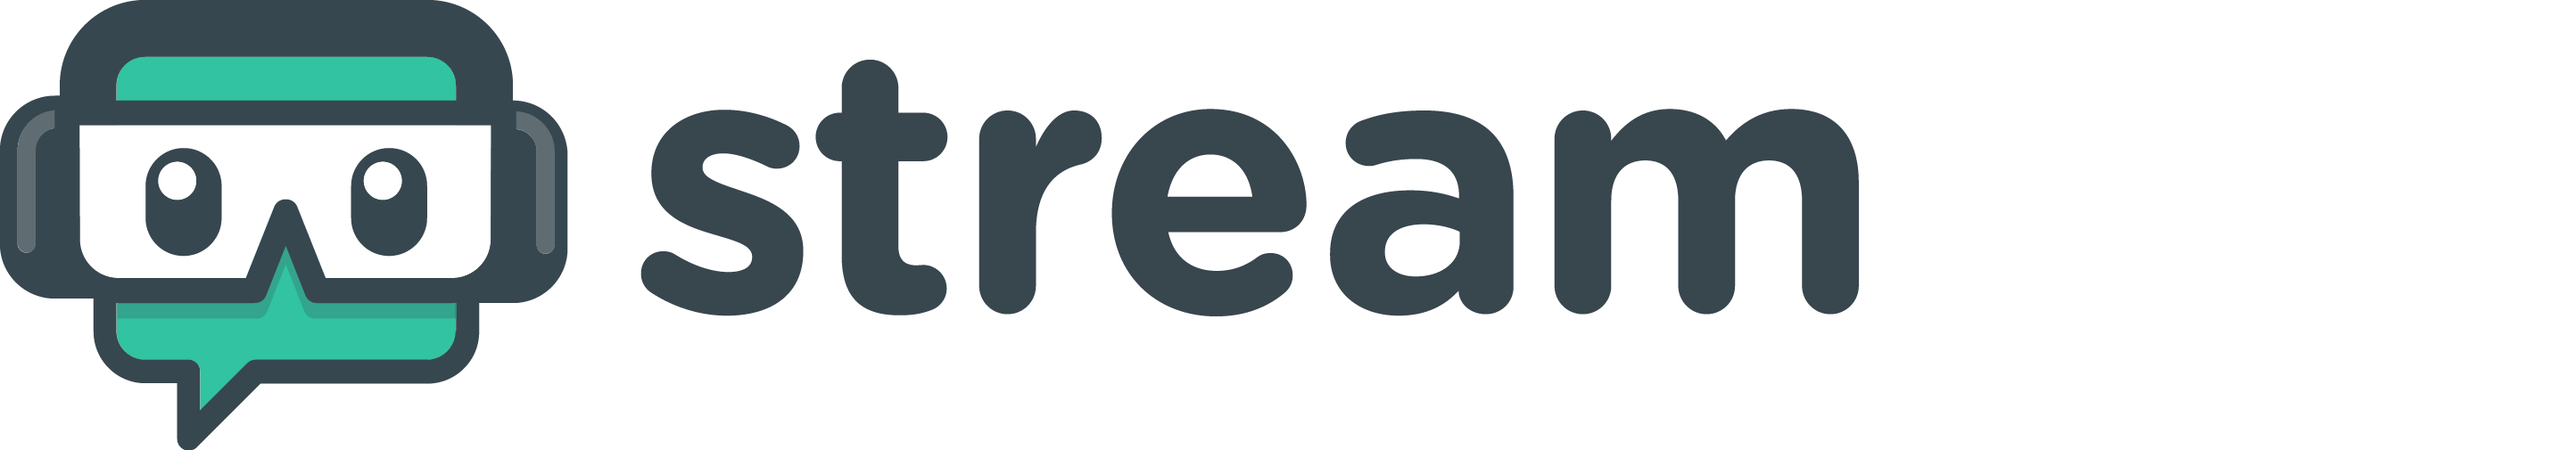
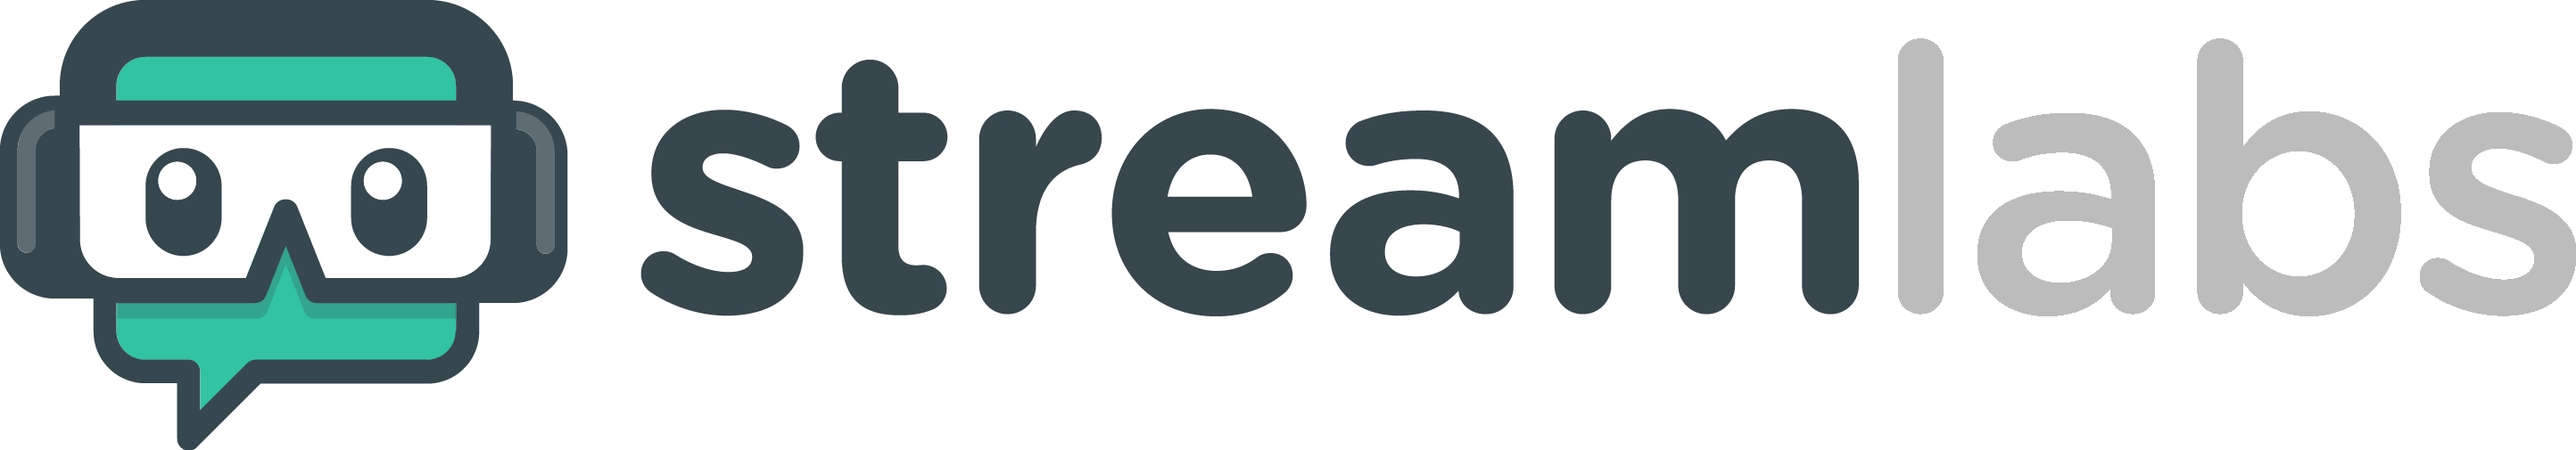
fix streamlabs branding

Changed region(s): [[0.7168, 0.0891, 1.0, 0.7129]]

diff --git a/tips.html b/tips.html
@@ -100,7 +100,7 @@
 			<div style="text-align: center; margin-bottom: 30px; margin-top: -20px;">
 			<img src="img/gamewisprewards.png" class="nodrag" width="583" height="220">	
 			</div>
-			<div class="fontcenterl" style="text-align: center; line-height: 40px; padding-bottom: 30px; padding-top: 50px;"><a href="https://twitch.streamlabs.com/PandaPlaysHD" target="_blank">No thanks, I'd just like to give a one-time tip. <br /><img src="img/streamlabs.png" class="nodrag" width="200" height="52"></a>
+			<div class="fontcenterl" style="text-align: center; line-height: 40px; padding-bottom: 30px; padding-top: 50px;"><a href="https://twitch.streamlabs.com/PandaPlaysHD" target="_blank">No thanks, I'd just like to give a one-time tip. <br /><img src="img/streamlabs.png?revised=1" class="nodrag" width="200" height="52"></a>
 			</div>
 			</div>
 		
@@ -117,7 +117,7 @@
 			<div style="text-align: center; margin-bottom: 30px; margin-top: -20px;">
 			<img src="img/gamewisprewards.png" class="nodrag" width="583" height="220">	
 			</div>
-			<div class="fontcenter" style="text-align: center; line-height: 40px; padding-bottom: 30px; padding-top: 50px;"><a href="https://twitch.streamlabs.com/PandaPlaysHD" target="_blank">No thanks, I'd just like to give a one-time tip. <br /><img src="img/streamlabs.png" class="nodrag" width="200" height="52"></a></div>
+			<div class="fontcenter" style="text-align: center; line-height: 40px; padding-bottom: 30px; padding-top: 50px;"><a href="https://twitch.streamlabs.com/PandaPlaysHD" target="_blank">No thanks, I'd just like to give a one-time tip. <br /><img src="img/streamlabs.png?revised=1" class="nodrag" width="200" height="52"></a></div>
 			</div>
 		
 		<!-- MOBILE VERSION -->
@@ -130,7 +130,7 @@
 			</div>
 			<div class="fontcenters" style="text-align: center; line-height: 20px; padding-bottom: 40px">GameWisp is a monthly subscription service.<br />Subscribe to Panda and receive rewards!</div>
 			<div class="fontcenters" style="text-align: center; line-height: 20px; padding-bottom: 40px"><a href="https://gamewisp.com/PandaPlaysHD" target="_blank">Click here to view the GameWisp page and subscribe.</a></div>
-			<div class="fontcenters" style="text-align: center; line-height: 20px; padding-bottom: 20px;"><a href="https://twitch.streamlabs.com/PandaPlaysHD" target="_blank">No thanks, I'd just like to give a one-time tip. <br /><img src="img/streamlabs.png" class="nodrag" width="100" height="26"></a></div>
+			<div class="fontcenters" style="text-align: center; line-height: 20px; padding-bottom: 20px;"><a href="https://twitch.streamlabs.com/PandaPlaysHD" target="_blank">No thanks, I'd just like to give a one-time tip. <br /><img src="img/streamlabs.png?revised=1" class="nodrag" width="100" height="26"></a></div>
 			</div>
 	</div> 
 	</div> <!-- end content -->
